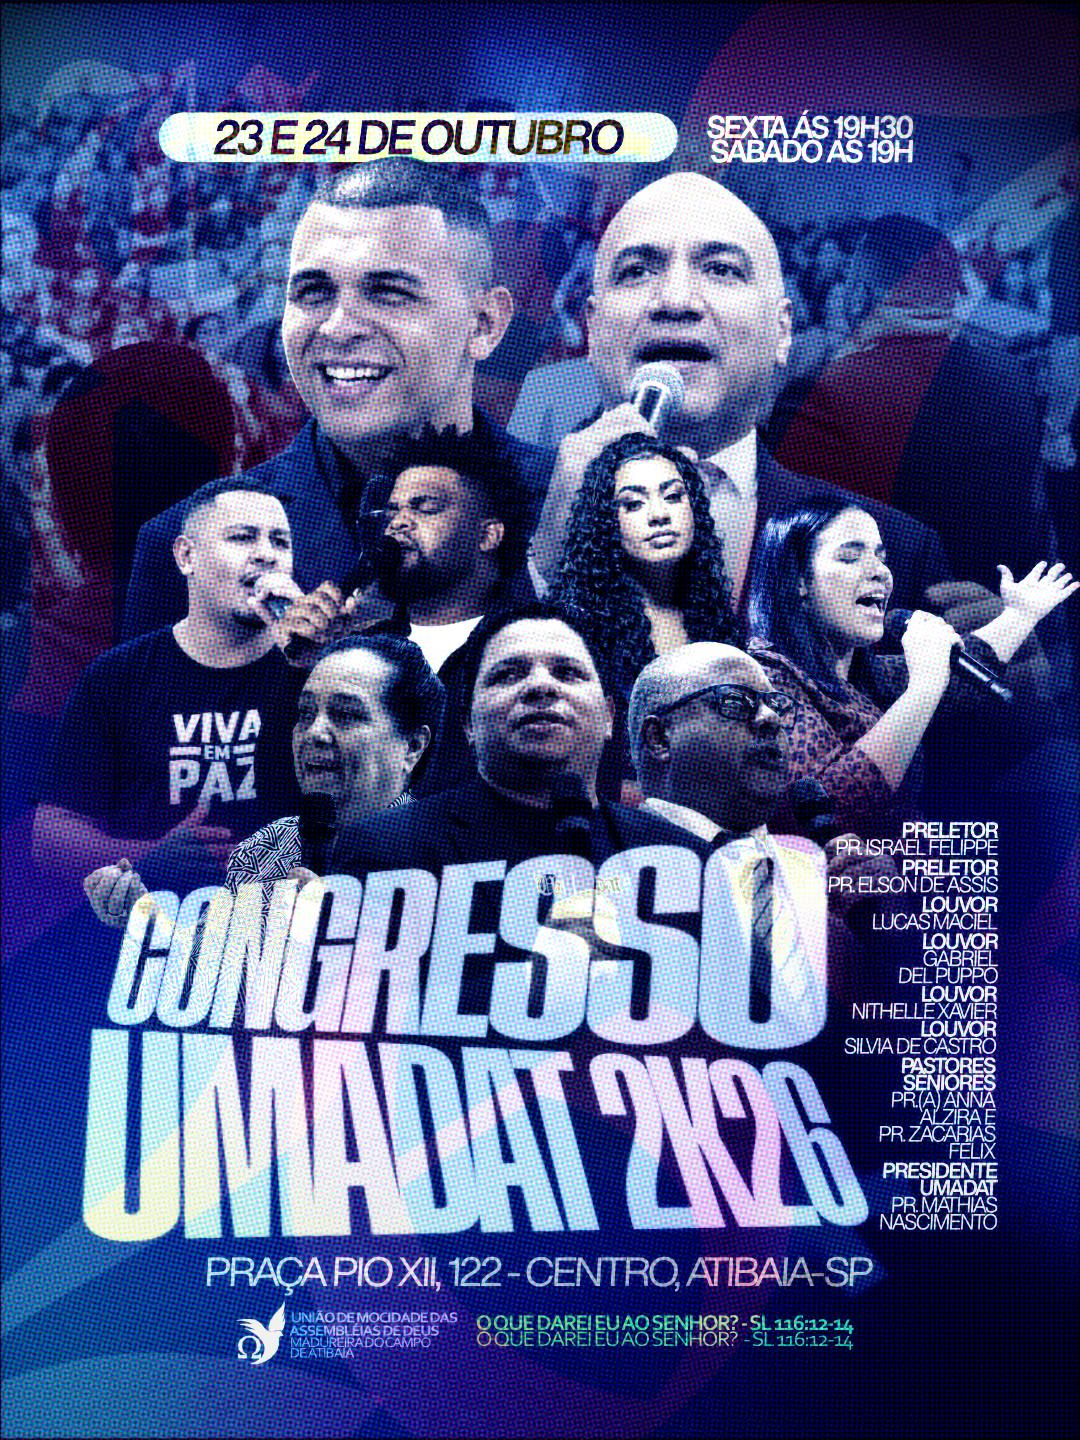
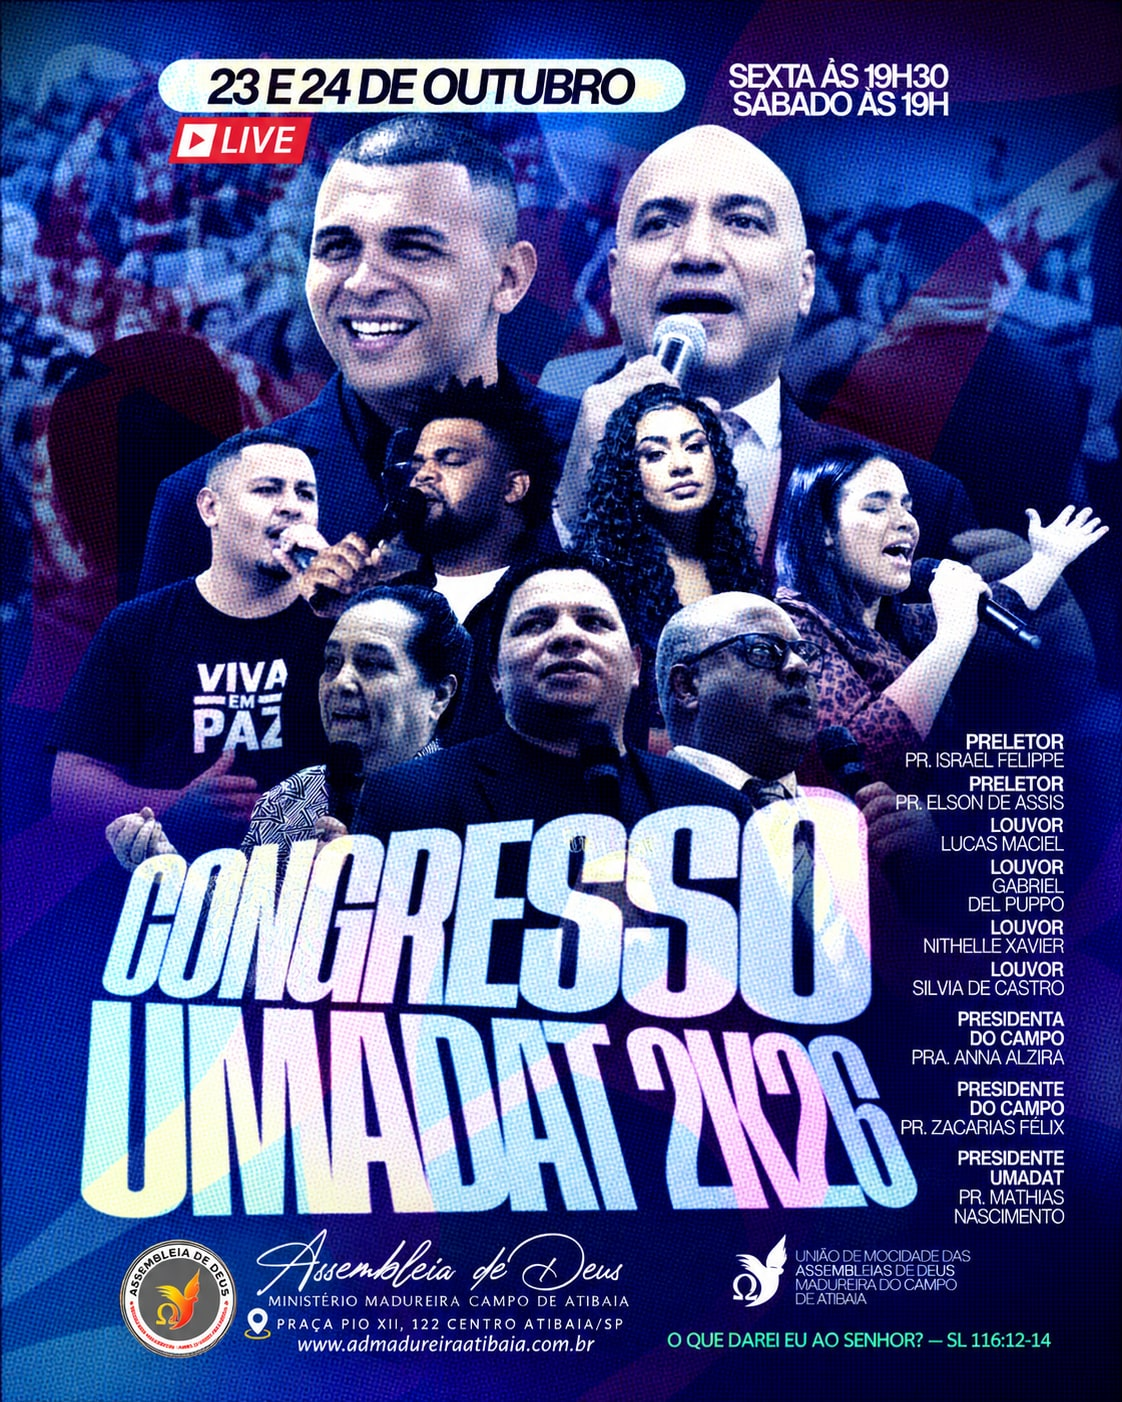
chore(artes): publica artes da semana de 19 a 25 de outubro (#196)
Adiciona as 13 artes da pasta public/programacao/semanas/2026-10-19 e
regenera banner-semanal-manifest.ts com o bloco 2026-10-19.

Troca a arte feed do Congresso UMADAT 2026
(public/programacao/eventos/congresso-umadat-2026.jpg, usada como imagem
dos eventos de 23 e 24/10) pela versão nova, convertida para JPEG. A
nova traz o selo LIVE e "Presidenta/Presidente do Campo" no lugar de
"Pastores Seniores", o que já bate com o texto dos eventos. Banner e
hero (paisagem) não mudam.

Culto de Ensino de 20/10: a arte anuncia a série Estudando o livro de
Tiago com o Pr. Raimundo Martinez; registrado em agenda-excecoes.ts.
A arte não diz o capítulo, então o aviso não traz capítulo nem link.

Datas e horários das demais artes conferidos com o cadastro: quarta
21/10 9h, 15h e 19h, quinta 22/10 19h30, sexta 23/10 14h30, domingo
25/10 8h, 9h (Lição 04), 11h e 18h30.

diff --git a/src/lib/__tests__/programacao-excecoes.test.ts b/src/lib/__tests__/programacao-excecoes.test.ts
@@ -62,7 +62,11 @@ describe("exceção de 18/10/2026: Ensaio da Mocidade dá lugar ao Ensaio Geral 
       },
     ]);
     expect(getAvisosProgramacaoSemanalAtual(meioDia("2026-10-11"))).toEqual([]);
-    expect(getAvisosProgramacaoSemanalAtual(meioDia("2026-10-19"))).toEqual([]);
+    expect(
+      getAvisosProgramacaoSemanalAtual(meioDia("2026-10-19")).filter(
+        (aviso) => aviso.slug === ENSAIO
+      )
+    ).toEqual([]);
   });
 
   it("some de Hoje na Igreja em 18/10 e aparece em 11/10 e 25/10", () => {
@@ -102,7 +106,7 @@ describe("exceção de 13/10/2026: Culto de Ensino com a série de Tiago", () =>
       horario: "19h30",
     });
     expect(ensinoNaSemana("2026-10-06")?.titulo).toBe("Culto de Ensino");
-    expect(ensinoNaSemana("2026-10-20")?.titulo).toBe("Culto de Ensino");
+    expect(ensinoNaSemana("2026-10-27")?.titulo).toBe("Culto de Ensino");
   });
 
   it("avisa a série, o capítulo e o preletor, com link para Tiago 2", () => {
@@ -123,8 +127,34 @@ describe("exceção de 13/10/2026: Culto de Ensino com a série de Tiago", () =>
       );
 
     expect(titulos("2026-10-13")).toContain(SERIE);
-    expect(titulos("2026-10-20")).toContain("Culto de Ensino");
+    expect(titulos("2026-10-27")).toContain("Culto de Ensino");
     expect(titulos("2026-10-20")).not.toContain(SERIE);
+  });
+});
+
+describe("exceção de 20/10/2026: Culto de Ensino com a série de Tiago e o Pr. Raimundo Martinez", () => {
+  const SERIE = "Culto de Ensino — Série especial: Estudando o livro de Tiago";
+  const ensinoNaSemana = (data: string) =>
+    getProgramacaoSemanalAtual(meioDia(data)).find(
+      (item) => item.slug === "culto-de-ensino"
+    );
+
+  it("troca o título só na semana de 20/10 e mantém terça às 19h30", () => {
+    expect(ensinoNaSemana("2026-10-20")).toMatchObject({
+      titulo: SERIE,
+      dia: "Terça-feira",
+      horario: "19h30",
+    });
+    expect(ensinoNaSemana("2026-10-27")?.titulo).toBe("Culto de Ensino");
+  });
+
+  it("avisa a série e o preletor", () => {
+    const aviso = getAvisosProgramacaoSemanalAtual(meioDia("2026-10-20")).find(
+      (item) => item.slug === "culto-de-ensino"
+    );
+
+    expect(aviso?.texto).toContain("Estudando o livro de Tiago");
+    expect(aviso?.texto).toContain("Pr. Raimundo Martinez");
   });
 });
 

diff --git a/src/data/banner-semanal-manifest.ts b/src/data/banner-semanal-manifest.ts
@@ -447,5 +447,20 @@ export const BANNERS_SEMANAIS_DISPONIVEIS: Record<string, readonly string[]> = {
     "jejum-e-oração.png",
     "oracao-matinal-domingo.png",
     "oracao-matinal.png"
+  ],
+  "2026-10-19": [
+    "circulo-de-oracao.png",
+    "congresso-umadat-2026.png",
+    "consagracao-mulheres.png",
+    "culto-de-domingo.png",
+    "culto-de-ensino.png",
+    "culto-de-libertacao.png",
+    "culto-de-quinta.png",
+    "ebd.png",
+    "ensaio-irmas.png",
+    "ensaio-jovens.png",
+    "jejum-e-oração.png",
+    "oracao-matinal-domingo.png",
+    "oracao-matinal.png"
   ]
 };

diff --git a/src/data/agenda-excecoes.ts b/src/data/agenda-excecoes.ts
@@ -33,6 +33,14 @@ export const excecoesProgramacao: ExcecaoProgramacao[] = [
     href: buildBibleReferenceHref("Tiago 2") ?? "/espiritualidade/biblia",
   },
   {
+    slug: "culto-de-ensino",
+    data: "2026-10-20",
+    acao: "alterar",
+    titulo: "Culto de Ensino — Série especial: Estudando o livro de Tiago",
+    motivo:
+      "Nesta terça, 20/10: série especial Estudando o livro de Tiago. Preletor: Pr. Raimundo Martinez",
+  },
+  {
     slug: "ensaio-jovens-rios-de-uncao",
     data: "2026-10-18",
     acao: "suspender",
